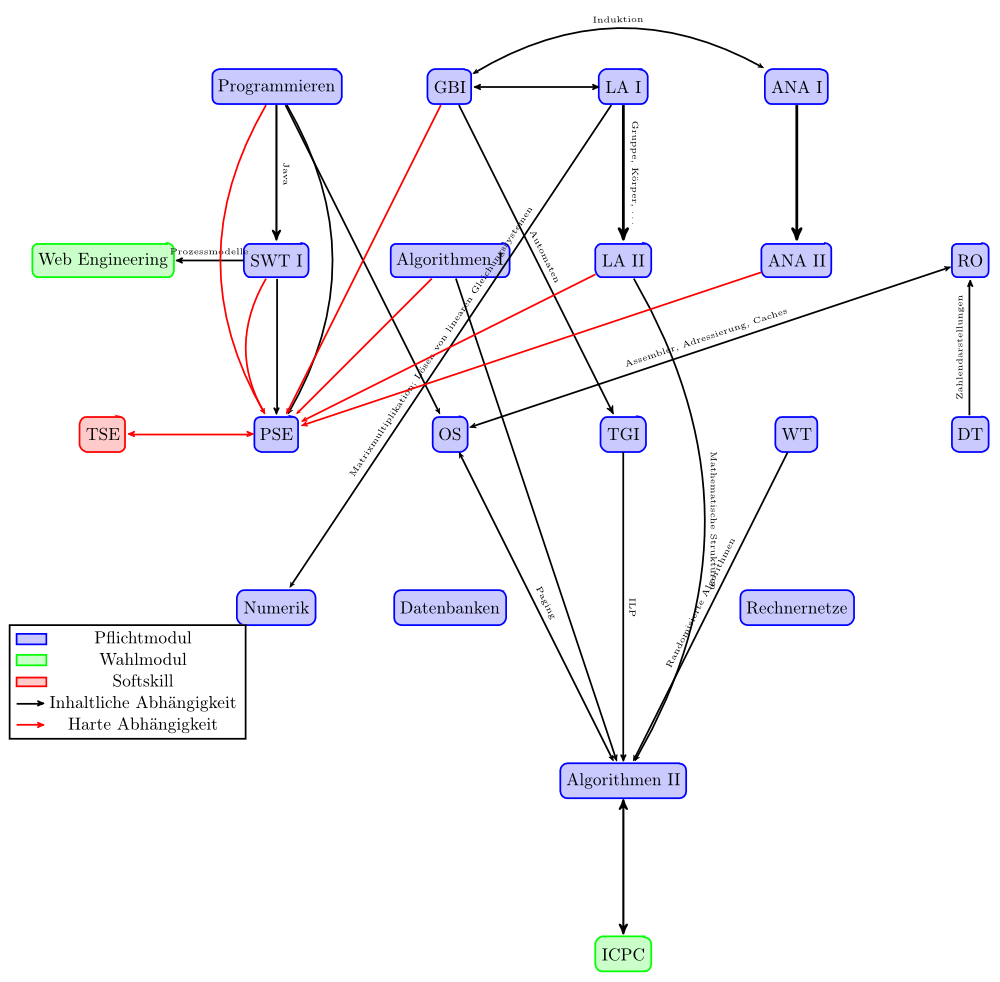
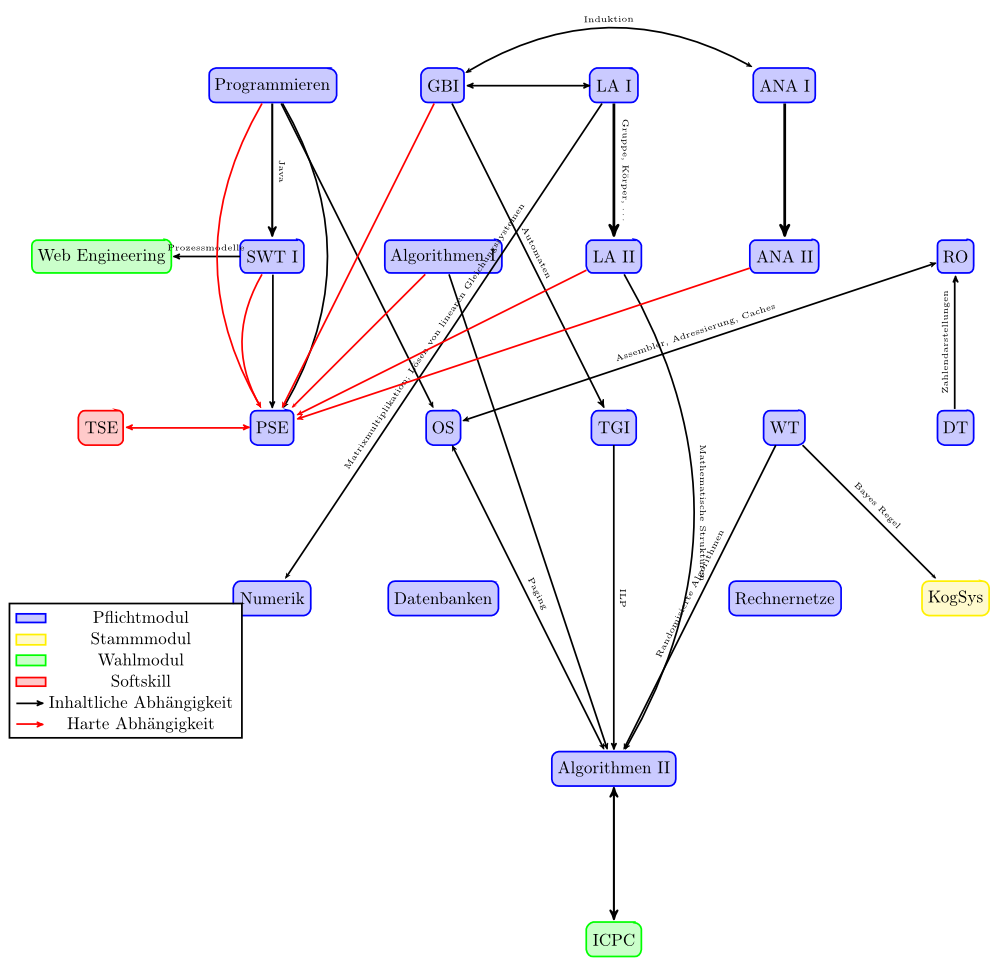
added KogSys

diff --git a/tikz/informatikstudium-kit-abhaengigkeitsgraph/informatikstudium-kit-abhaengigkeitsgraph.tex b/tikz/informatikstudium-kit-abhaengigkeitsgraph/informatikstudium-kit-abhaengigkeitsgraph.tex
@@ -31,6 +31,7 @@
 \begin{preview}
 \begin{tikzpicture}[>=stealth',shorten >=1pt,auto,node distance=3.5cm,
 pflicht/.style ={rectangle, draw=blue, thick, fill=blue!20,align=center, rounded corners, minimum height=2em},
+stammmodul/.style ={rectangle, draw=yellow, thick, fill=yellow!20,align=center, rounded corners, minimum height=2em},
 wahl/.style ={rectangle, draw=green, thick, fill=green!20,align=center, rounded corners, minimum height=2em},
 soft/.style ={rectangle, draw=red, thick, fill=red!20,align=center, rounded corners, minimum height=2em}]
     % Draw the vertices.
@@ -55,6 +56,7 @@ soft/.style ={rectangle, draw=red, thick, fill=red!20,align=center, rounded corn
     \node[pflicht] (numerik)    [below of=pse] {Numerik};
     \node[pflicht] (datenbanken)    [right of=numerik] {Datenbanken};
     \node[pflicht] (rechnernetze)    [below of=wt] {Rechnernetze};
+    \node[stammmodul]   (KogSys)    [right of=rechnernetze] {KogSys};
 
     \node[pflicht] (algii)  [right of=datenbanken, below of=datenbanken] {Algorithmen II};
 
@@ -68,6 +70,7 @@ soft/.style ={rectangle, draw=red, thick, fill=red!20,align=center, rounded corn
     \path[->] (algi)    edge node {} (algii);
     \path[->] (tgi)     edge node[anchor=center,above,sloped] {\tiny{ILP}} (algii);
     \path[->] (wt)      edge node[anchor=center,above,sloped] {\tiny{Randomisierte Algorithmen}} (algii);
+    \path[->] (wt)      edge node[anchor=center,above,sloped] {\tiny{Bayes Regel}} (KogSys);
     \path[->] (dt)      edge node[anchor=center,above,sloped] {\tiny{Zahlendarstellungen}} (ro);
     \path[->] (lai)     edge[ultra thick] node[anchor=center,above,sloped] {\tiny{Gruppe, Körper, \dots}} (laii);
     \path[<->] (lai)    edge node {} (gbi);
@@ -92,8 +95,9 @@ soft/.style ={rectangle, draw=red, thick, fill=red!20,align=center, rounded corn
     \path[->] (gbi)     edge[red] node {} (pse);
     \path[<->] (os)     edge node[anchor=center,above,sloped] {\tiny{Paging}} (algii);
 
-    \begin{customlegend}[legend entries={Pflichtmodul,Wahlmodul,Softskill,Inhaltliche Abhängigkeit,Harte Abhängigkeit},legend style={at={(-3,-12)},anchor=center}]
+    \begin{customlegend}[legend entries={Pflichtmodul,Stammmodul,Wahlmodul,Softskill,Inhaltliche Abhängigkeit,Harte Abhängigkeit},legend style={at={(-3,-12)},anchor=center}]
     \addlegendimage{blue,fill=blue!20,area legend}
+    \addlegendimage{yellow,fill=yellow!20,area legend}
     \addlegendimage{green,fill=green!20,area legend}
     \addlegendimage{red,fill=red!20,area legend}
     \addlegendimage{->,black,sharp plot}
